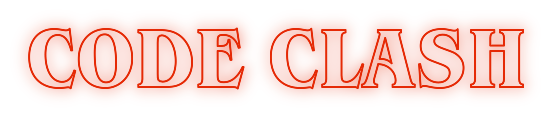
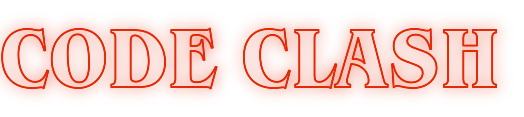
Cropped the title image and also increased its dimensions

Changed region(s): [[0.0, 0.2051, 0.9466, 0.7949], [0.9466, 0.7179, 0.9771, 0.7436], [0.9466, 0.2564, 0.9771, 0.2821]]

diff --git a/my-project/src/Components/Events/Events.jsx b/my-project/src/Components/Events/Events.jsx
@@ -119,7 +119,7 @@ export default function Events() {
                     <img
                       src={s.titleImg}
                       alt={s.titleAlt}
-                      className="w-56 sm:w-64 md:w-80 drop-shadow-[0_0_18px_rgba(0,0,0,0.7)]"
+                      className="w-72 sm:w-96 md:w-[28rem] drop-shadow-[0_0_18px_rgba(0,0,0,0.7)]"
                       onError={(e) =>
                         (e.currentTarget.style.display = "none")
                       }
